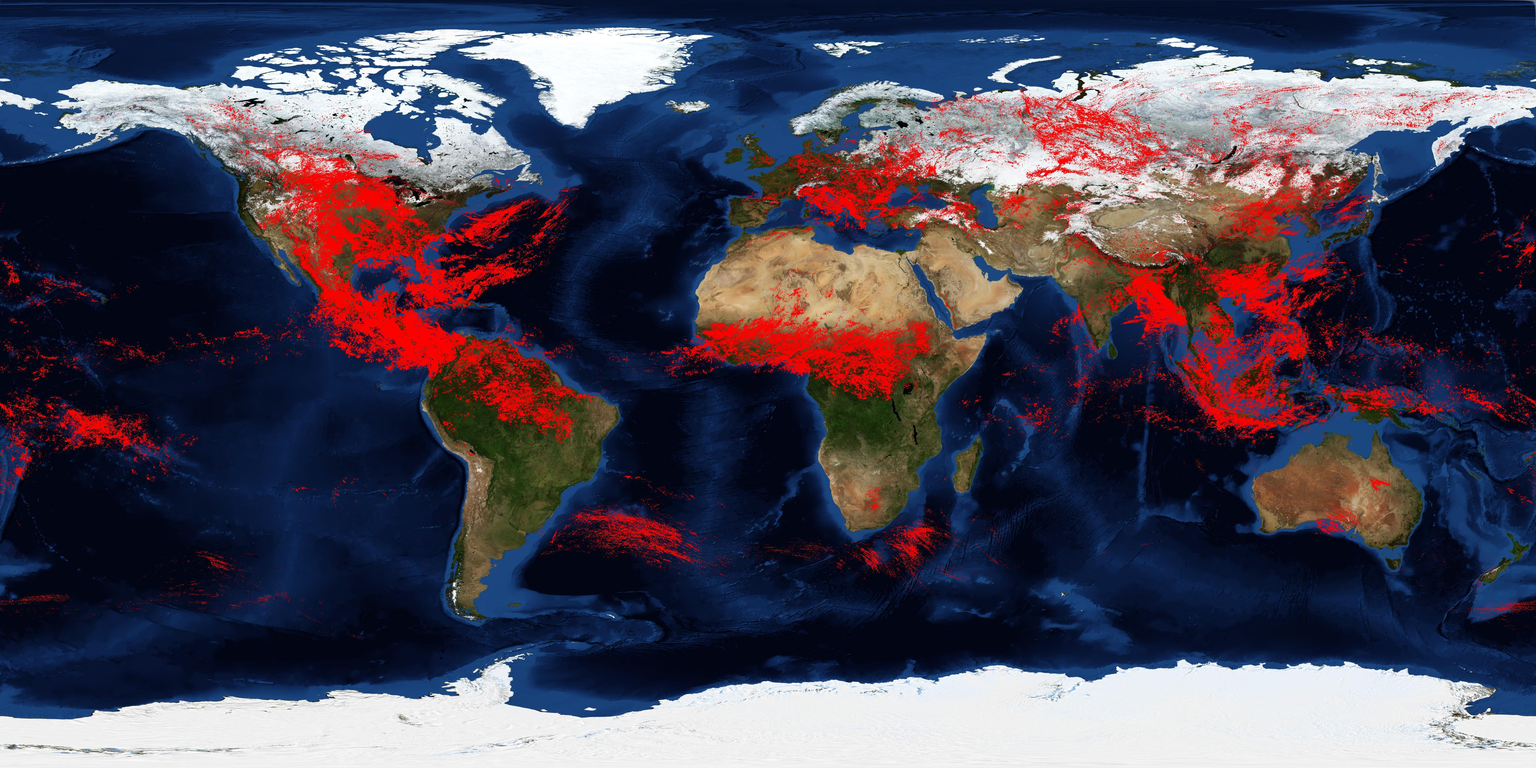
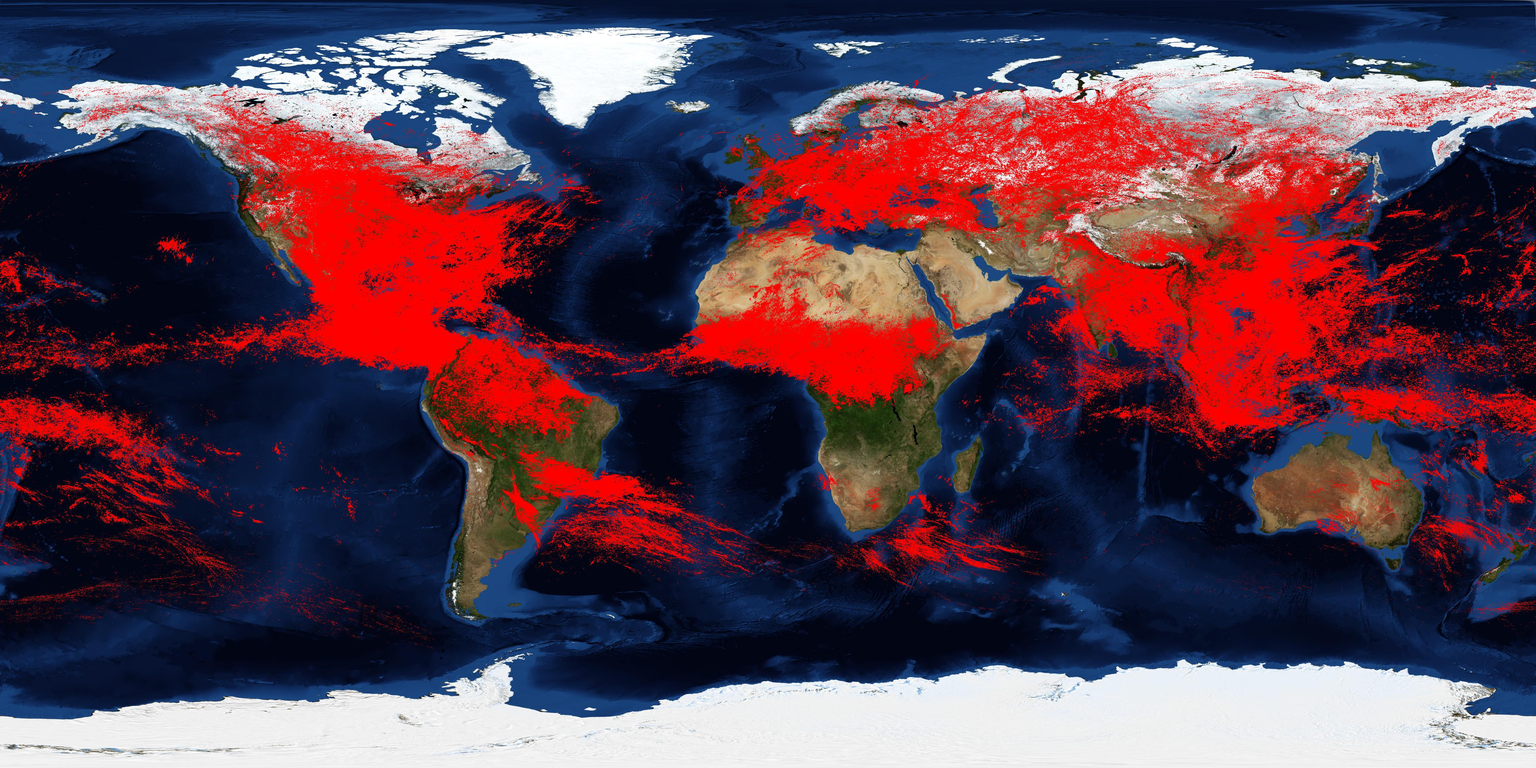
Version 1.0

diff --git a/fractal_dimension.py b/fractal_dimension.py
@@ -44,41 +44,41 @@ def data_collection():
 
     time_step_size = input_text_box_time_step_size.get()
     if time_step_size == '':
-        time_step_size = 5
+        time_step_size = 1
     else:
         time_step_size = int(time_step_size)
 
     time_step_count = input_text_box_time_step_count.get()
     if time_step_count == '':
-        time_step_count = 18
+        time_step_count = 30
     else:
         time_step_count = int(time_step_count)
 
     file_template = input_text_box_file_template_name.get()
     if file_template == '':
-        file_template = '_'
+        file_template = 'central_America_1month'
 
     up_border = input_text_box_up_border.get()
     if up_border == '':
-        up_border = 56.4
+        up_border = 21
     else:
         up_border = float(up_border)
 
     down_border = input_text_box_up_border.get()
     if down_border == '':
-        down_border = 56
+        down_border = 15.66
     else:
         down_border = float(down_border)
 
     left_border = input_text_box_up_border.get()
     if left_border == '':
-        left_border = 43.6
+        left_border = -100
     else:
         left_border = float(left_border)
 
     right_border = input_text_box_up_border.get()
     if right_border == '':
-        right_border = 44
+        right_border = -94.46
     else:
         right_border = float(right_border)
 
@@ -115,9 +115,16 @@ def data_collection():
     if max_cell_size > width:
         max_cell_size = width
 
+    meta_data = "first_date:" + str(first_date) + " time_step_size:" + str(time_step_size) \
+                + " time_step_count:" + str(time_step_count) + " file_template:" + str(file_template) \
+                + " up_border:" + str(up_border) + " down_border:" + str(down_border) \
+                + " left_border:" + str(left_border) + " right_border:" + str(right_border)\
+                + " width:" + str(width) + " height:" + str(height)\
+                + " max_cell_size:" + str(max_cell_size) + " progression_step:" + str(progression_step)
+
     zone = []
     for i in range(height):
-        zone.append([False] * width)
+        zone.append([0] * width)
 
     first_date = first_date.split('/')
     second_date = datetime.date(int(first_date[0]), int(first_date[1]), int(first_date[2]))
@@ -160,7 +167,7 @@ def data_collection():
                     lat = math.trunc((lat / (up_border - down_border)) * height)
 
                     thunderbolt_detected_flag = True
-                    zone[lat][lon] = True
+                    zone[lat][lon] += 1
 
                 if right_border < left_border:
                     if lat < right_border:
@@ -174,7 +181,7 @@ def data_collection():
                     lat = math.trunc((lat / (up_border - down_border)) * height)
 
                     thunderbolt_detected_flag = True
-                    zone[lat][lon] = True
+                    zone[lat][lon] += 1
 
             current_date = current_date + datetime.timedelta(days=1)
 
@@ -223,6 +230,16 @@ def data_collection():
         plt.plot(cell_size_list, number_of_cells_with_object_list, marker='x', label=str((time_step_cycle_counter + 1)
                                                                                          * time_step_size) + " days")
         # plt.plot(x, y)
+
+    table_file = open(file_template + "_table.txt", "w")
+    table_file.write(str(len(zone)) + '\n')
+    table_file.write(str(len(zone[0])) + '\n')
+    for i in range(len(zone)):
+        for j in range(len(zone[i])):
+            table_file.write(str(zone[i][j]) + ' ')
+        table_file.write(str(zone[i][j]) + '\n')
+    table_file.write(meta_data + '\n')
+
 
     log_text_box.insert(END, "Data collection completed successfully\n")
     plt.legend()

diff --git a/experiment.py b/experiment.py
@@ -1,42 +1,3 @@
-import json
-
-matr =[]
-matr.append([])
-matr[0].append(1)
-matr[0].append(1)
-matr[0].append(1)
-matr.append([])
-matr[1].append(2)
-matr[1].append(2)
-matr[1].append(2)
-print(matr)
-
-#axis = ['1-2', '2-3', '3-4']
-# line = []
-# dict = {}
-# dict['a'] = 0
-# dict['m'] = 10
-# dict['f'] = 3
-# dict['t'] = 4
-# line.append(dict)
-#
-# dict = {}
-# dict['a'] = 0
-# dict['m'] = 10
-# dict['f'] = 3
-# dict['t'] = 4
-# line.append(dict)
-#
-# dict = {}
-# dict['a'] = 0
-# dict['m'] = 10
-# dict['f'] = 3
-# dict['t'] = 4
-# line.append(dict)
-#
-# matr = []
-# matr.append(line)
-# matr.append(line)
-# matr.append(line)
-# string = json.dumps(matr)
-# print(string)
+from PIL import Image
+img = Image.new('RGB', (250, 250), (255, 255, 255))
+img.show()

diff --git a/statistics.py b/statistics.py
@@ -5,11 +5,11 @@ import math
 #command = input("input command\n")
 path_to_data = "../thunderbolt_data/06/"
 #first_date = input("Enter starting date in format yy/mm/dd\n")
-first_date = "2016/06/09"
+first_date = "2016/06/01"
 #first_time = input("Enter starting time in format hh:mm:ss\n")
 first_time = "00:00:00"
 #second_date = input("Enter starting date in format yy/mm/dd\n")
-second_date = "2016/06/15"
+second_date = "2016/06/29"
 #second_time = input("Enter starting time in format hh:mm:ss\n")
 second_time = "23:59:59"
 
